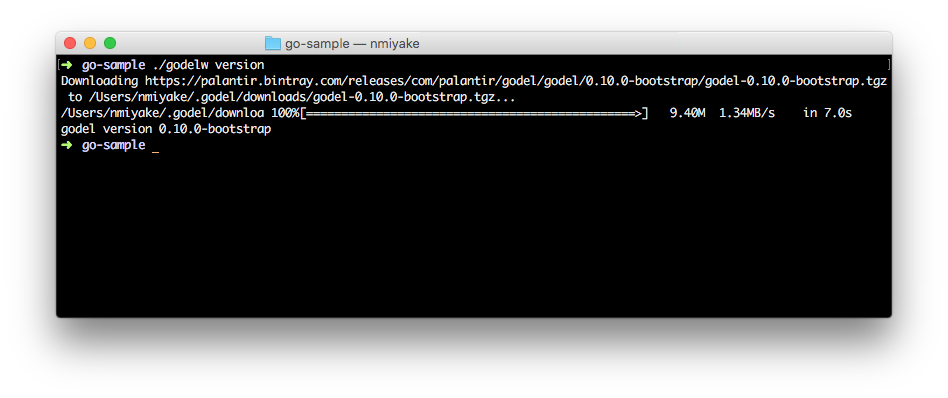
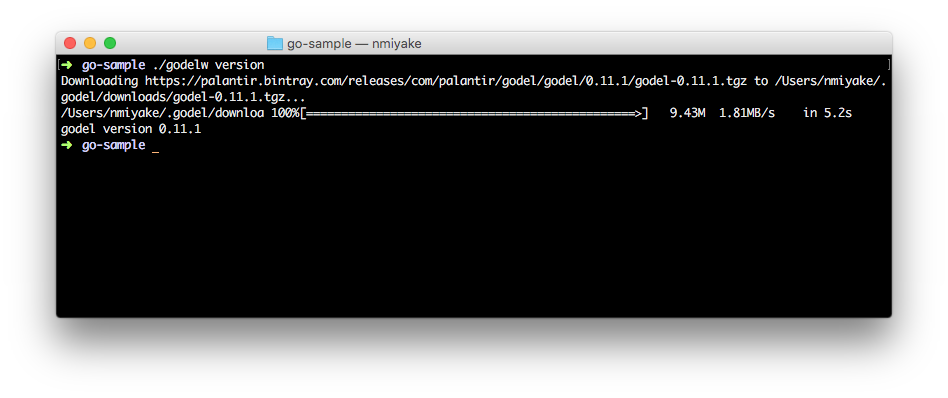
Update documentation (#22)
Use 0.11.1 in example to reduce confusion around bootstrap.

diff --git a/docs/Add-gödel-to-a-project.md b/docs/Add-gödel-to-a-project.md
@@ -13,7 +13,7 @@ Download and install gödel from a distribution
 * Copy the `godelw` script and the `godel` directory to the top-level directory of the destination project:
 
 ```bash
-> cp -r ~/Downloads/godel-0.10.0-bootstrap/wrapper/* $GOPATH/src/github.com/<USER>/<REPO>
+> cp -r ~/Downloads/godel-0.11.1/wrapper/* $GOPATH/src/github.com/<USER>/<REPO>
 ```
 
 * Find and add the checksum for the distribution (optional: see instructions at the end)
@@ -36,14 +36,14 @@ manually expand the distribution directory to the expected location as follows (
 
 ```bash
 mkdir -p ~/.godel/dists
-tar -C ~/.godel/dists -xzf ~/Downloads/godel-0.10.0-bootstrap.tgz
+tar -C ~/.godel/dists -xzf ~/Downloads/godel-0.11.1.tgz
 ```
 
 Alternatively, the expanded directory can also be moved/copied into place:
 
 ```bash
 mkdir -p ~/.godel/dists
-cp -r ~/Downloads/godel-0.10.0-bootstrap ~/.godel/dists
+cp -r ~/Downloads/godel-0.11.1 ~/.godel/dists
 ```
 
 Add checksum
@@ -61,19 +61,19 @@ If a user has obtained a trusted distribution locally, it is also possible to ma
 some examples of how to compute the SHA-256 checksum of a local file:
 
 ```bash
-> openssl dgst -sha256 ~/Downloads/godel-0.10.0-bootstrap.tgz
-SHA256(/Users/<USER>/Downloads/godel-0.10.0-bootstrap.tgz)= 6c471386282440931f02b5483ed40f22f54cb4734618529a4d6e939620356ccf
+> openssl dgst -sha256 ~/Downloads/godel-0.11.1.tgz
+SHA256(/Users/<USER>/Downloads/godel-0.11.1.tgz)= 01dde9336b284ba26952a19d741fd97be1fde2d61c8684b5c04f9e4fae17571f
 ```
 
 ```bash
-> shasum -a 256 ~/Downloads/godel-0.10.0-bootstrap.tgz
-6c471386282440931f02b5483ed40f22f54cb4734618529a4d6e939620356ccf  /Users/<USER>/Downloads/godel-0.10.0-bootstrap.tgz
+> shasum -a 256 ~/Downloads/godel-0.11.1.tgz
+01dde9336b284ba26952a19d741fd97be1fde2d61c8684b5c04f9e4fae17571f  /Users/<USER>/Downloads/godel-0.11.1.tgz
 ```
 
 Once the digest value is obtained, open the `godel/config/godel.properties` file and enter the value after the
 `distributionSHA256=` key. After doing so, the contents of the file should resemble the following:
 
 ```
-distributionURL=https://palantir.bintray.com/releases/com/palantir/godel/godel/0.10.0-bootstrap/godel-0.10.0-bootstrap.tgz
[1 lines of base64/hex data omitted]
+distributionURL=https://palantir.bintray.com/releases/com/palantir/godel/godel/0.11.1/godel-0.11.1.tgz
[1 lines of base64/hex data omitted]
 ```
